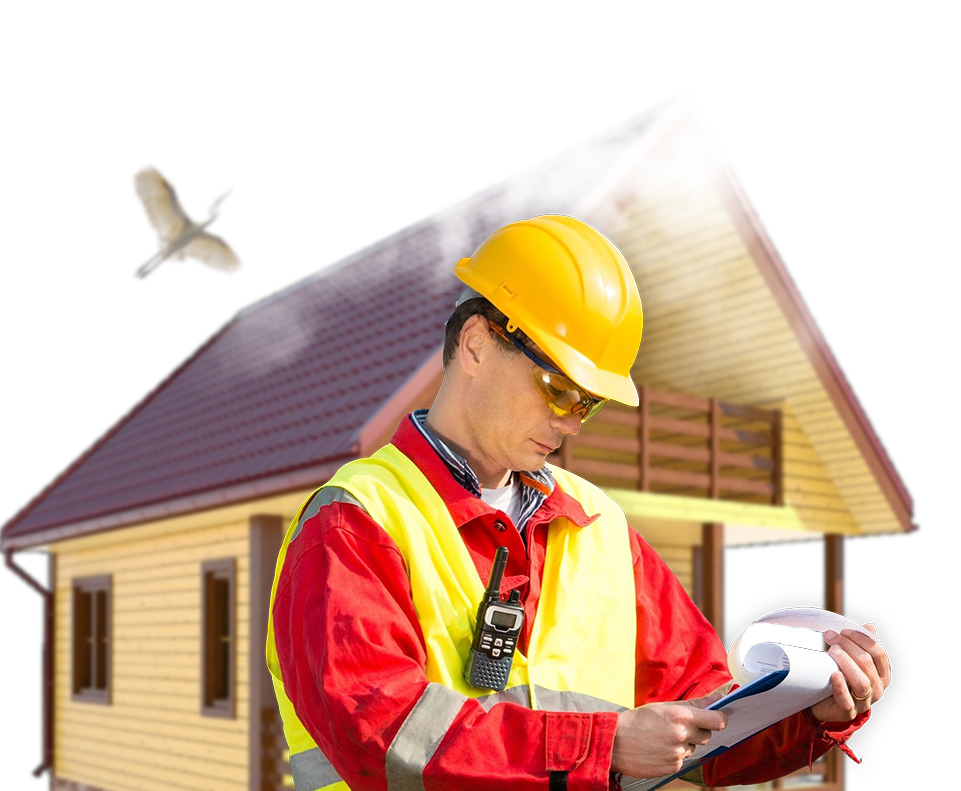
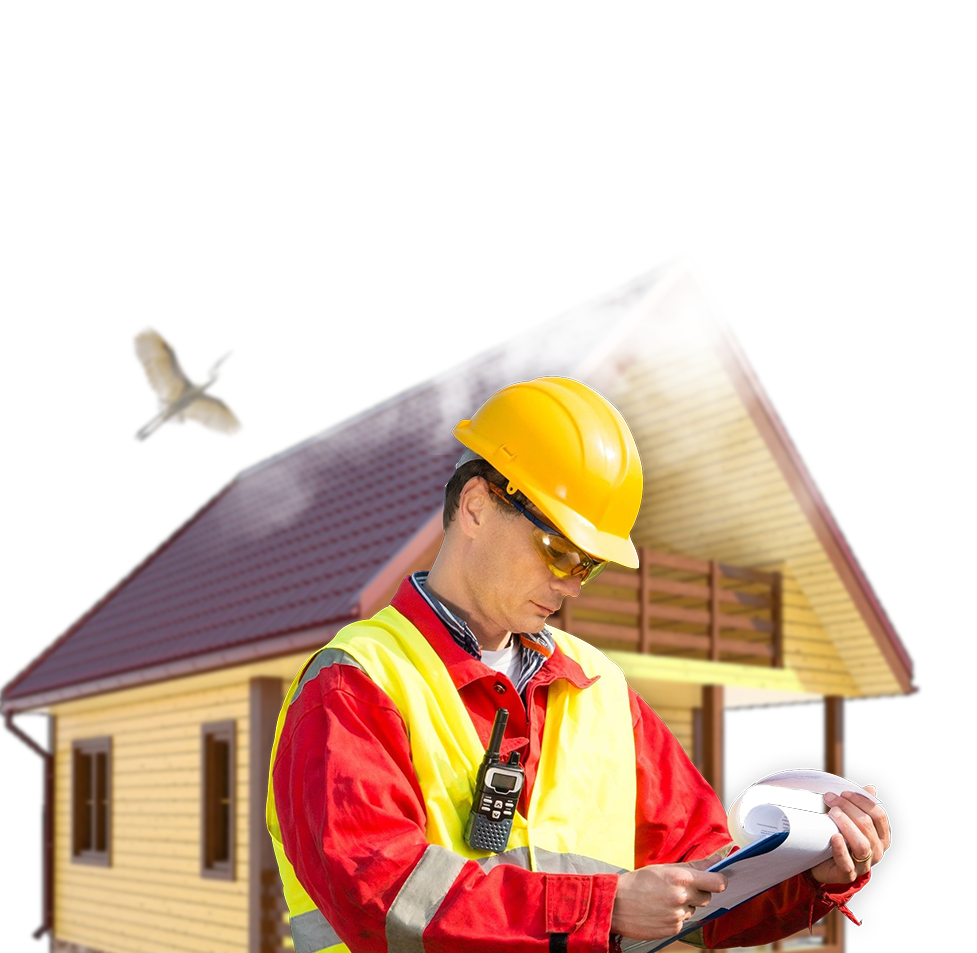
ready big form

diff --git a/index.html b/index.html
@@ -500,7 +500,7 @@
       </div>
     </section>
 
-    <section id="bigform">
+    <section id="bigform" class="position-relative">
       <div class="container-fluid text-center section-padding">
         <div class="d-flex justify-content-center justify-content-lg-end">
           <div class="form-block text-lg-left">
@@ -522,11 +522,11 @@
                   <label for="file" class="green addfile"><img src="img/icon-paperclip.png" alt="" class="paperclip">Если у Вас есть проект, прикрепите его</label>
                 </div>
                 <div class="col-12 col-sm-6">
-                    <label for="date">Укажите дату и время для звонка</label>
+                    <label for="date" class="font-regular">Укажите дату и время для звонка</label>
                     <input type="text" id="date" name="date" placeholder="ДД.ММ" class="input-rounded">
                 </div>
                 <div class="col-12 col-sm-6 d-flex flex-column">
-                    <div class="order-1 order-sm-0"><input type="checkbox"><label class="anytime">В любое время</label></div>
+                    <div class="order-1 order-sm-0"><input type="checkbox"><label class="anytime font-regular">В любое время</label></div>
                     <input type="text" id="time" name="time" placeholder="--:--" class="input-rounded">
                 </div>
                 <div class="col-12 d-flex flex-column flex-md-row align-items-center">
@@ -536,12 +536,13 @@
                     <label for="agree">Нажимая на кнопку, я соглашаюсь с <a href="#">политикой&nbsp;конфиденциальности</a></label>
                   </div>
                 </div>
-              </div>
-
+              </div><!-- /.row -->
             </form>
-          </div>
-        </div>
-      </div>
+          </div><!-- /.form-block -->
+        </div><!-- /.justify-content-end -->
+      </div><!-- /.container-fluid -->
+      <div class="bigform-house position-absolute"></div>
+      <div class="bigform-tree position-absolute"></div>
     </section>
 
     <footer></footer>

diff --git a/style.css b/style.css
@@ -236,6 +236,10 @@ header {
 	background: url('img/bg-skybigform.jpg') no-repeat center/cover;
 }
 
+#bigform .container-fluid {
+	padding-bottom: 420px;
+}
+
 /* ---- Page Elements ---- */
 
 .font-light {
@@ -596,6 +600,23 @@ h1 .green {
 	margin-top: 20px;
 }
 
+.form-block .col-12,
+.form-block h2,
+.form-block p {
+	position: relative;
+	z-index: 1;
+}
+
+.bigform-house {
+	left: 0;
+	bottom: 0;
+	width: 100%;
+	height: 620px;
+	background: url('img/bigform-house.png') no-repeat;
+	background-size: cover;
+	background-position: center;
+}
+
 /* ---- Buttons and links ---- */
 
 .green-dotted {
@@ -840,6 +861,12 @@ h1 .green {
 		margin-bottom: 0;
 		margin-top: 10px;
 	}
+	#bigform .container-fluid {
+		padding-bottom: 450px;
+	}
+	.bigform-house {
+		height: 720px;
+	}
 }
 
 @media (max-width: 767px) {
@@ -1009,6 +1036,9 @@ h1 .green {
 		margin-top: 0;
 		margin-left: 20px;
 	}
+	.bigform-house {
+		background-size: contain;
+	}
 }
 
 @media (max-width: 991px) {
@@ -1136,7 +1166,20 @@ h1 .green {
 	#services {
 		padding-bottom: 75px;
 	}
+	#bigform .container-fluid {
+		padding-bottom: 95px;
+	}
+	.bigform-house {
+		background-position: -370px;
+	}
 }
+
+@media (min-width: 1100px) {
+	.bigform-house {
+		background-position: -300px;
+	}
+}
+
 @media (min-width: 1200px) {
 	h2 {
 		font-size: 45px;
@@ -1179,5 +1222,8 @@ h1 .green {
 	.construction-img {
 		width: 640px;
     height: 340px;
+	}
+	.bigform-house {
+		height: 100%;
 	}
 }
